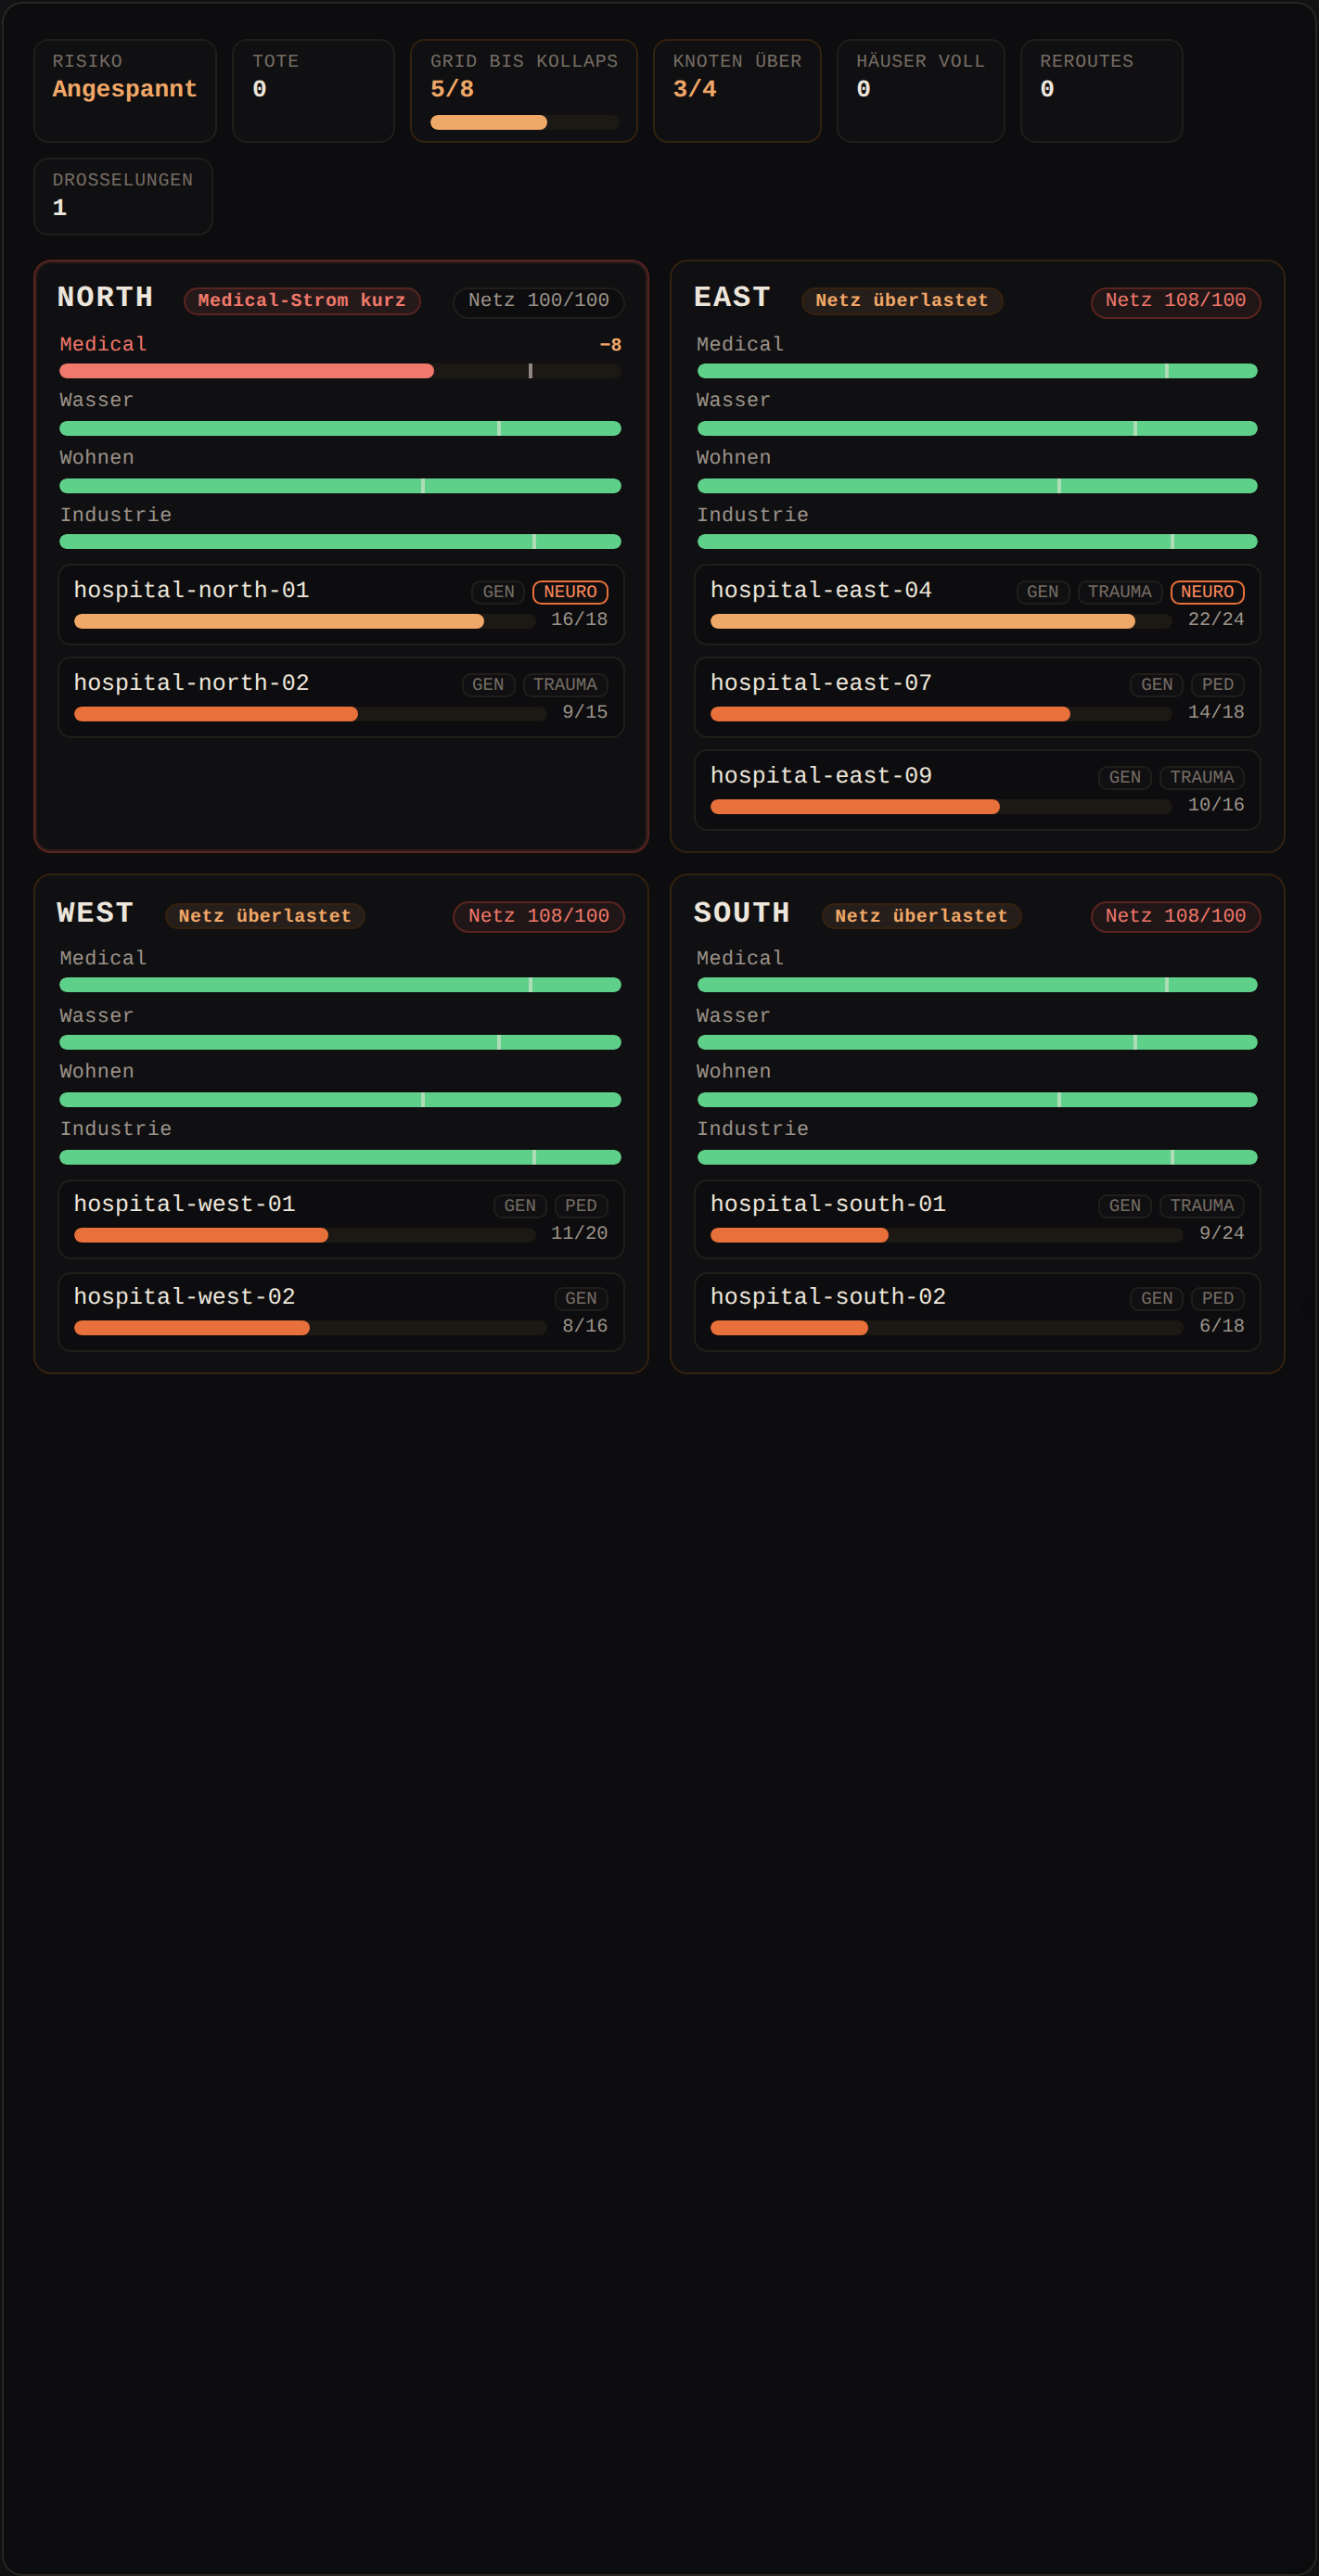
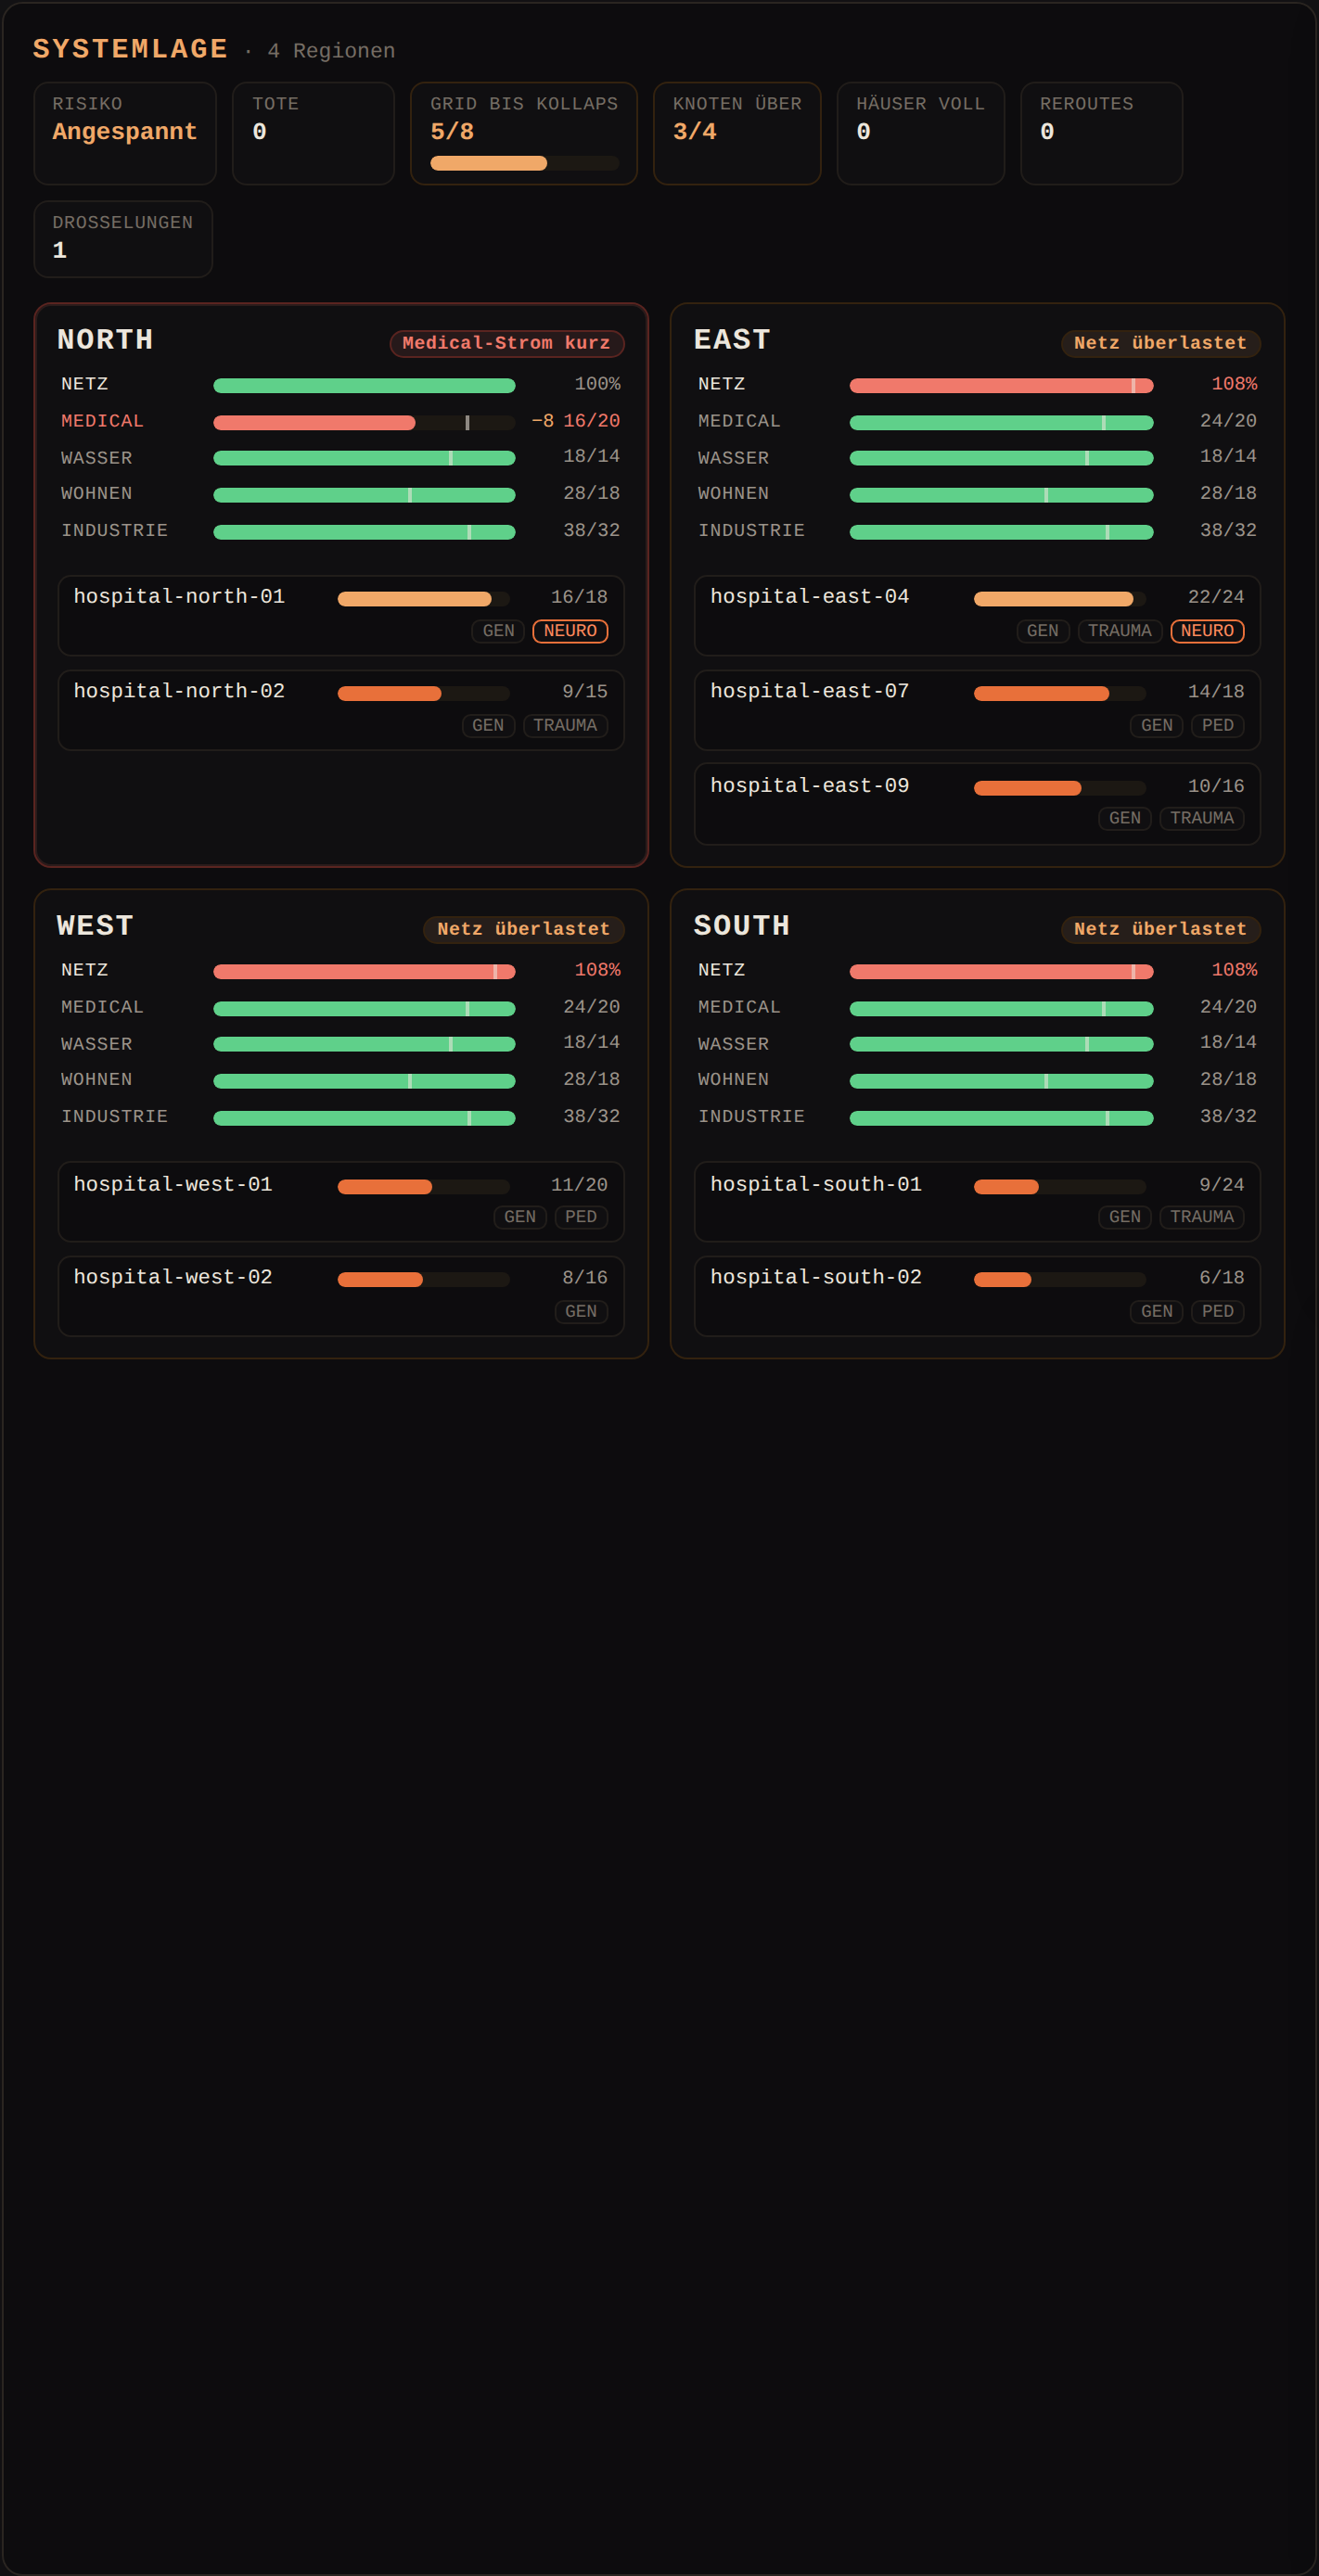
feat(ui): Lagekarte als ausgerichtete Gauge-Zeilen (Label·Balken·Wert)
Richtet die Karte am angestrebten Entwurf aus: SYSTEMLAGE-Header, pro Region
eine NETZ-Gauge plus Feed-Gauges (Medical/Wasser/Wohnen/Industrie) im
gemeinsamen Raster Label · Meter · Wert mit Minimum-Markierung; Hospital-
Zeilen im selben Raster (Notfall-Meter + Wert, Fähigkeiten darunter).
Drosselung als "−N" am Feed. Doom-Clock als Meter in der Lage-Leiste.

Claude-Session: https://claude.ai/code/session_01GtqasASBmUo9eQG2XdnWo7

diff --git a/src/ui/SituationMapPanel.tsx b/src/ui/SituationMapPanel.tsx
@@ -99,6 +99,62 @@ function Meter({
   );
 }
 
+/** Eine ausgerichtete Gauge-Zeile: Label · Meter · Wert. */
+function GaugeRow({
+  label,
+  value,
+  max,
+  mark,
+  tone,
+  valueText,
+  badge,
+  onClick,
+  disabled,
+  title,
+  className = "",
+}: {
+  label: string;
+  value: number;
+  max: number;
+  mark?: number;
+  tone: Tone;
+  valueText: string;
+  badge?: string;
+  onClick?: () => void;
+  disabled?: boolean;
+  title?: string;
+  className?: string;
+}) {
+  const content = (
+    <>
+      <span className="gauge-label">{label}</span>
+      <Meter value={value} max={max} mark={mark} tone={tone} />
+      <span className={`gauge-value ${tone === "danger" ? "over-text" : ""}`}>
+        {badge && <span className="gauge-badge">{badge}</span>}
+        {valueText}
+      </span>
+    </>
+  );
+  if (onClick) {
+    return (
+      <button
+        type="button"
+        className={`gauge-row gauge-button ${className}`}
+        onClick={onClick}
+        disabled={disabled}
+        title={title}
+      >
+        {content}
+      </button>
+    );
+  }
+  return (
+    <div className={`gauge-row ${className}`} title={title}>
+      {content}
+    </div>
+  );
+}
+
 export function SituationMapPanel({
   regions,
   sheddingPlans,
@@ -143,6 +199,11 @@ export function SituationMapPanel({
 
   return (
     <section className="map-panel">
+      <div className="map-head">
+        <h2>SYSTEMLAGE</h2>
+        <span className="map-head-sub">· {regions.length} Regionen</span>
+      </div>
+
       {/* Lage-Leiste: der Zustand der Schicht auf einen Blick. */}
       <div className="situation-bar">
         <span className={`stat risk-${outcome.globalRisk}`}>
@@ -257,15 +318,22 @@ function RegionTile({
       <header className="tile-head">
         <span className="tile-name">{region.key.toUpperCase()}</span>
         <span className={`tile-status status-tone-${status.tone}`}>{status.label}</span>
-        {node && (
-          <span className={`node-pill ${nodeOver ? "node-over" : ""}`}>
-            Netz {node.load}/{node.safeCapacity}
-          </span>
-        )}
       </header>
 
-      {/* Verbraucher als kleine Versorgungs-Meter (Versorgung vs. Bedarf, Min-Marke). */}
-      <div className="tile-feeds">
+      {/* Eine gemeinsame Gauge-Spalte: Netz + Verbraucher, ausgerichtet. */}
+      <div className="gauges">
+        {node && (
+          <GaugeRow
+            label="NETZ"
+            value={node.load}
+            max={Math.max(node.load, node.safeCapacity)}
+            mark={node.safeCapacity}
+            tone={nodeOver ? "danger" : "ok"}
+            valueText={`${Math.round(node.loadPercent)}%`}
+            className="gauge-node"
+            title={`${node.id} · Last ${node.load} / sicher ${node.safeCapacity}`}
+          />
+        )}
         {sortedConsumers.map((consumer) => {
           const short = consumer.currentSupply < consumer.minimumSupply;
           const reduced = consumer.status !== "nominal";
@@ -277,21 +345,22 @@ function RegionTile({
               key={consumer.id}
               type="button"
               data-consumer-id={consumer.id}
-              className={`feed-gauge ${short ? "feed-short" : ""}`}
+              className={`gauge-row gauge-button ${short ? "gauge-short" : ""}`}
               onClick={() => onConsumerClick(consumer)}
               disabled={disabled}
               title={`${consumer.criticalityLabel} · Systemklasse ${consumer.priorityClass} · ${consumer.reductionConsequence}`}
             >
-              <span className="feed-top">
-                <span className="feed-label">{consumerMeta(consumer.id).label}</span>
-                {shedTotal > 0 && <span className="feed-shed">−{shedTotal}</span>}
-              </span>
+              <span className="gauge-label">{consumerMeta(consumer.id).label}</span>
               <Meter
                 value={consumer.currentSupply}
                 max={consumer.demand}
                 mark={consumer.minimumSupply}
                 tone={tone}
               />
+              <span className={`gauge-value ${short ? "over-text" : ""}`}>
+                {shedTotal > 0 && <span className="gauge-badge">−{shedTotal}</span>}
+                {consumer.currentSupply}/{consumer.minimumSupply}
+              </span>
             </button>
           );
         })}
@@ -321,25 +390,23 @@ function RegionTile({
               onClick={() => onHospitalClick(hospital)}
               disabled={disabled}
             >
-              <div className="hosp-line">
-                <span className="hosp-id">{hospital.id}</span>
-                <span className="hosp-caps">
-                  {hospital.clinicalCapabilities.map((cap) => (
-                    <span key={cap} className={`caps-tag ${cap === "NEURO" ? "cap-neuro" : ""}`}>
-                      {cap}
-                    </span>
-                  ))}
-                </span>
-              </div>
-              <div className="hosp-gauge">
+              <div className="gauge-row">
+                <span className="gauge-label gauge-label-hosp">{hospital.id}</span>
                 <Meter
                   value={hospital.emergencySlotsOccupied}
                   max={hospital.emergencySlotsTotal}
                   tone={emTone}
                 />
-                <span className={`hosp-em ${emOver ? "over-text" : "muted"}`}>
+                <span className={`gauge-value ${emOver ? "over-text" : ""}`}>
                   {hospital.emergencySlotsOccupied}/{hospital.emergencySlotsTotal}
                 </span>
+              </div>
+              <div className="hosp-caps">
+                {hospital.clinicalCapabilities.map((cap) => (
+                  <span key={cap} className={`caps-tag ${cap === "NEURO" ? "cap-neuro" : ""}`}>
+                    {cap}
+                  </span>
+                ))}
               </div>
               {(outgoing.length > 0 || incoming.length > 0) && (
                 <div className="hosp-overrides">

diff --git a/src/App.css b/src/App.css
@@ -605,6 +605,91 @@ code {
   gap: 0.3rem;
 }
 
+/* ----- Gauge-Zeilen: Label · Meter · Wert (ausgerichtet) ----- */
+.map-head {
+  display: flex;
+  align-items: baseline;
+  gap: 0.4rem;
+  margin-bottom: 0.5rem;
+}
+.map-head h2 {
+  margin: 0;
+  font-size: 0.95rem;
+  letter-spacing: 0.1em;
+}
+.map-head-sub {
+  color: var(--text-mute);
+  font-size: 0.72rem;
+}
+
+.gauges {
+  display: flex;
+  flex-direction: column;
+  gap: 0.28rem;
+  margin-bottom: 0.55rem;
+}
+.gauge-row {
+  display: grid;
+  grid-template-columns: 4.6rem 1fr 3rem;
+  align-items: center;
+  gap: 0.5rem;
+  width: 100%;
+  text-align: left;
+  background: none;
+  border: none;
+  padding: 0.1rem 0.15rem;
+  color: inherit;
+  font: inherit;
+}
+.gauge-button {
+  cursor: pointer;
+  border-radius: 0.35rem;
+}
+.gauge-button:hover {
+  background: #1a1512;
+}
+.gauge-label {
+  font-size: 0.62rem;
+  letter-spacing: 0.05em;
+  text-transform: uppercase;
+  color: var(--text-dim);
+  white-space: nowrap;
+  overflow: hidden;
+  text-overflow: ellipsis;
+}
+.gauge-node .gauge-label {
+  color: var(--text);
+}
+.gauge-short .gauge-label {
+  color: var(--danger);
+}
+.gauge-value {
+  font-size: 0.64rem;
+  font-variant-numeric: tabular-nums;
+  color: var(--text-dim);
+  text-align: right;
+  white-space: nowrap;
+}
+.gauge-badge {
+  color: var(--warn);
+  margin-right: 0.3rem;
+}
+
+/* Hospital-Zeile: längeres Label, kompaktes Notfall-Meter, Fähigkeiten darunter. */
+.hosp-row .gauge-row {
+  grid-template-columns: 8.4rem 1fr 2.8rem;
+  padding: 0;
+}
+.gauge-label-hosp {
+  text-transform: none;
+  font-size: 0.7rem;
+  color: var(--text);
+  letter-spacing: 0;
+}
+.tile-hospitals .hosp-caps {
+  margin-top: 0.1rem;
+}
+
 /* 2x2-Regionenraster, füllt die Breite. */
 .region-map {
   display: grid;